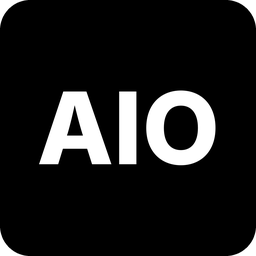
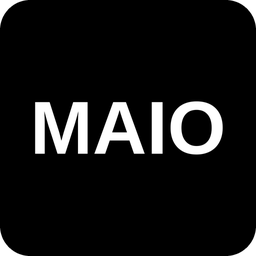
The launcher's code: window, game finding for every store, artwork, playtime, storage, updates

Changed region(s): [[0.125, 0.3438, 0.5938, 0.6562], [0.5938, 0.3438, 0.875, 0.6562]]

diff --git a/src/main.js b/src/main.js
@@ -17,14 +17,19 @@ const { createUpdater } = require('./updater');
 // - npm start and the installed app share one folder, so updates keep everything.
 // - the automatic tests point it at a pretend library instead.
 const appFolder = path.dirname(process.execPath);
+// (Before 1.1.2 the launcher was called "Game Launcher".)
 const installed =
-  require('fs').existsSync(path.join(appFolder, 'Uninstall Game Launcher.exe')) ||
+  ['Uninstall Maio Launcher.exe', 'Uninstall Game Launcher.exe'].some((f) => require('fs').existsSync(path.join(appFolder, f))) ||
   /[\\/]AppData[\\/]Local[\\/]Programs[\\/]/i.test(appFolder);
 const portable = app.isPackaged && !installed;
+// A portable copy from before the rename keeps using its old data folder.
+const portableData = ['Maio Launcher data', 'Game Launcher data']
+  .map((f) => path.join(appFolder, f))
+  .find((f) => require('fs').existsSync(f)) || path.join(appFolder, 'Maio Launcher data');
+// The installed launcher's data folder keeps its old name, so libraries carry over.
 app.setPath(
   'userData',
-  process.env.LAUNCHER_DATA_DIR ||
-    (portable ? path.join(appFolder, 'Game Launcher data') : path.join(app.getPath('appData'), 'game-launcher'))
+  process.env.LAUNCHER_DATA_DIR || (portable ? portableData : path.join(app.getPath('appData'), 'game-launcher'))
 );
 const { closeGame } = require('./closegame');
 const storage = require('./storage');
@@ -62,7 +67,7 @@ function createWindow() {
     width: 1280,
     height: 860,
     backgroundColor: lib.settings?.colors?.bg || '#14161a',
-    title: 'Game Launcher',
+    title: 'Maio Launcher',
     icon: path.join(__dirname, 'icon.png'),
     webPreferences: {
       preload: path.join(__dirname, 'preload.js'),

diff --git a/src/updater.js b/src/updater.js
@@ -19,7 +19,7 @@ function isNewer(latest, current) {
 // release" page forwards to the page of that version, e.g. .../tag/v1.1.0.
 // (This avoids GitHub's API, which only allows 60 checks an hour.)
 async function latestRelease() {
-  const res = await fetch(RELEASES_PAGE, { method: 'HEAD', headers: { 'User-Agent': 'AIO-Game-Launcher' } });
+  const res = await fetch(RELEASES_PAGE, { method: 'HEAD', headers: { 'User-Agent': 'Maio-Launcher' } });
   if (!res.ok) throw new Error(`GitHub said ${res.status}`);
   const tag = decodeURIComponent(res.url.match(/\/releases\/tag\/([^/?#]+)/)?.[1] || '');
   if (!tag) throw new Error('GitHub has no releases yet');

diff --git a/src/index.html b/src/index.html
@@ -3,12 +3,12 @@
 <head>
   <meta charset="utf-8">
   <meta http-equiv="Content-Security-Policy" content="default-src 'self'; img-src 'self' data: https://*.steamstatic.com https://store-images.s-microsoft.com">
-  <title>Game Launcher</title>
+  <title>Maio Launcher</title>
   <link rel="stylesheet" href="styles.css">
 </head>
 <body>
   <aside class="sidebar">
-    <h1>Launcher</h1>
+    <h1>Maio Launcher</h1>
     <input id="search" type="search" placeholder="Search games (Ctrl+F)" spellcheck="false">
     <nav>
       <a data-view="all" class="active">All games</a>

diff --git a/src/README.md b/src/README.md
@@ -17,4 +17,4 @@
 | `playtime-stats.js` | Turns playtime into the week, month and year charts |
 | `closegame.js` | Closes a running game for the Close game button |
 | `storage.js` | Drive sizes, game folder sizes and uninstalling |
-| `icon.png` | The AIO icon on the window |
+| `icon.png` | The MAIO icon on the window |
